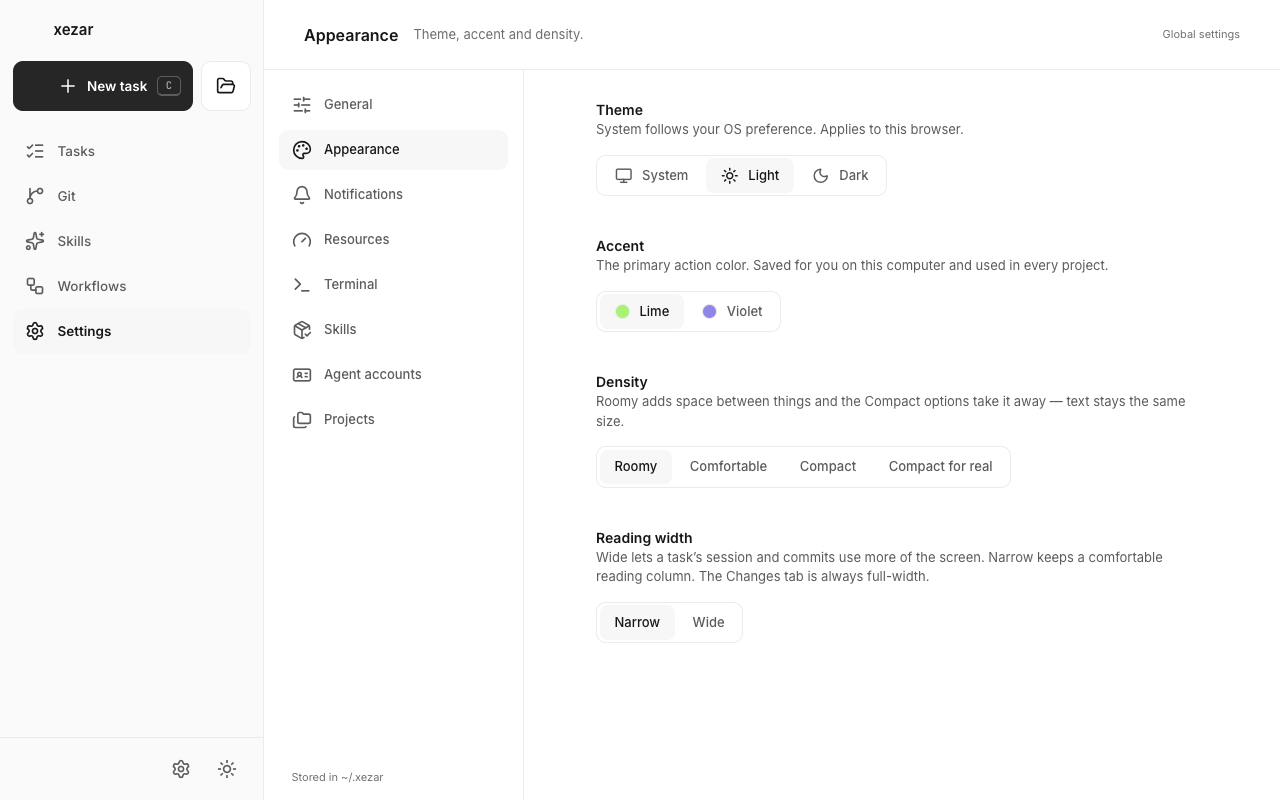
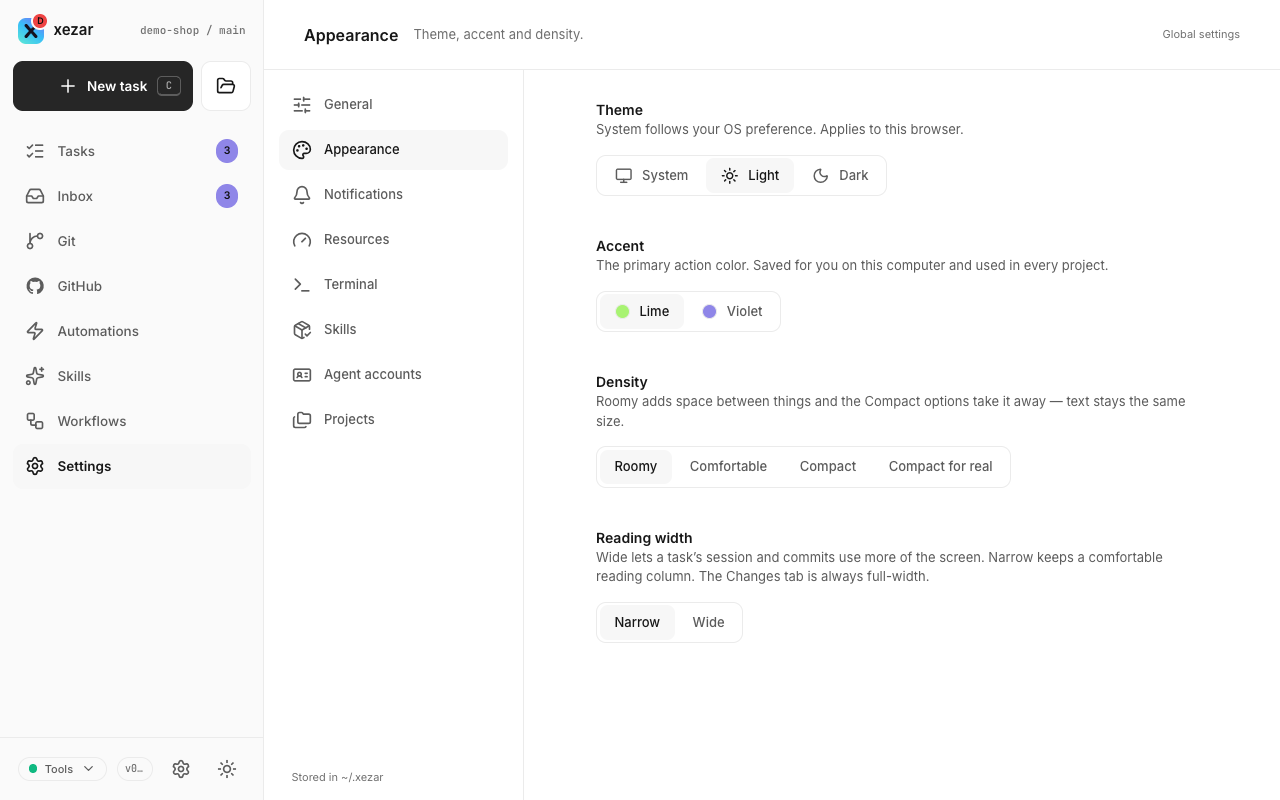
fix(docs): re-capture the light 1280 settings-appearance-roomy shot with a full sidebar
The 0.18.0 screenshot re-capture (#838 item D) shipped this one file with a
half-loaded sidebar — no logo, no Inbox/GitHub/Automations links, no count
badges, no Tools/version chips — flagged by review round 1 (#842) because it
was the only file in the set with a sharp size drop against its 0.16.0
predecessor.

Root cause: the settings-appearance-roomy scenario clicks the density
control and waits only for the density attribute to flip, with nothing
making it wait for the sidebar's own async data to resolve first. Reproduced
on two separate re-runs, hitting a different variant each time (dark/1280
the second time, light/1280 the first), which rules out the initial guess
that it's tied to being shot right after the previous variant's
resetAppearance call.

Fix the harness: wait for the sidebar-only [data-slot="version-chip"]
before touching the density control, so the shot can't land before the
sidebar has finished loading. Re-captured just this state; dark/1280 and
dark/375 came back byte-identical to what was already committed, only
light/1280 changed.

Ref: #838 item D, #842 review round 1.

diff --git a/packages/web/e2e/capture/scenario-state.ts b/packages/web/e2e/capture/scenario-state.ts
@@ -502,6 +502,13 @@ export const SCENARIOS: Record<string, Scenario> = {
 
   'settings-appearance-roomy': (ctx, theme) => {
     open(ctx, '/settings/global/appearance', theme)
+    // The density control mounts (and responds to the click below) before the sidebar's own
+    // data (project list, counts, the version chip) is guaranteed to have resolved, so a shot
+    // taken as soon as the density change lands can catch the sidebar half-rendered — reproduced
+    // on this state across more than one variant, not only the one shot right after the previous
+    // variant's resetAppearance. The version chip is sidebar-only and renders once its data is
+    // in, so waiting for it first is a proxy for "the sidebar finished loading".
+    wait(ctx.browser, exists('[data-slot="version-chip"]'))
     wait(ctx.browser, exists('[data-slot="appearance-density"] [data-value="roomy"]'))
     ctx.browser.click('[data-slot="appearance-density"] [data-value="roomy"]')
     wait(ctx.browser, `document.documentElement.dataset.density === 'roomy'`)
